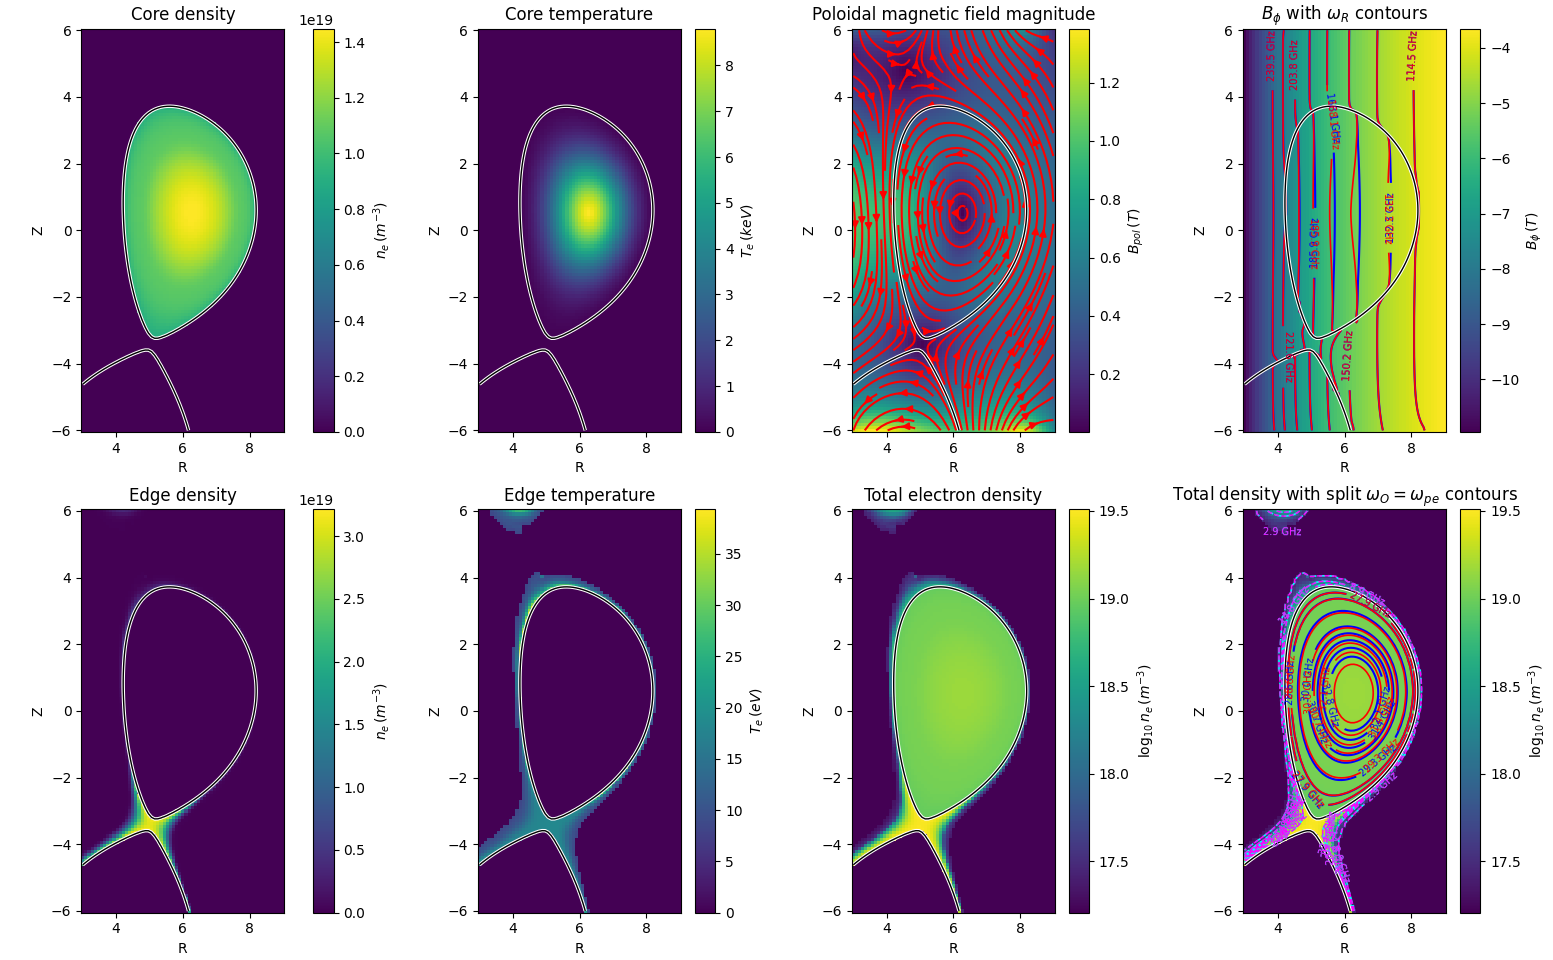
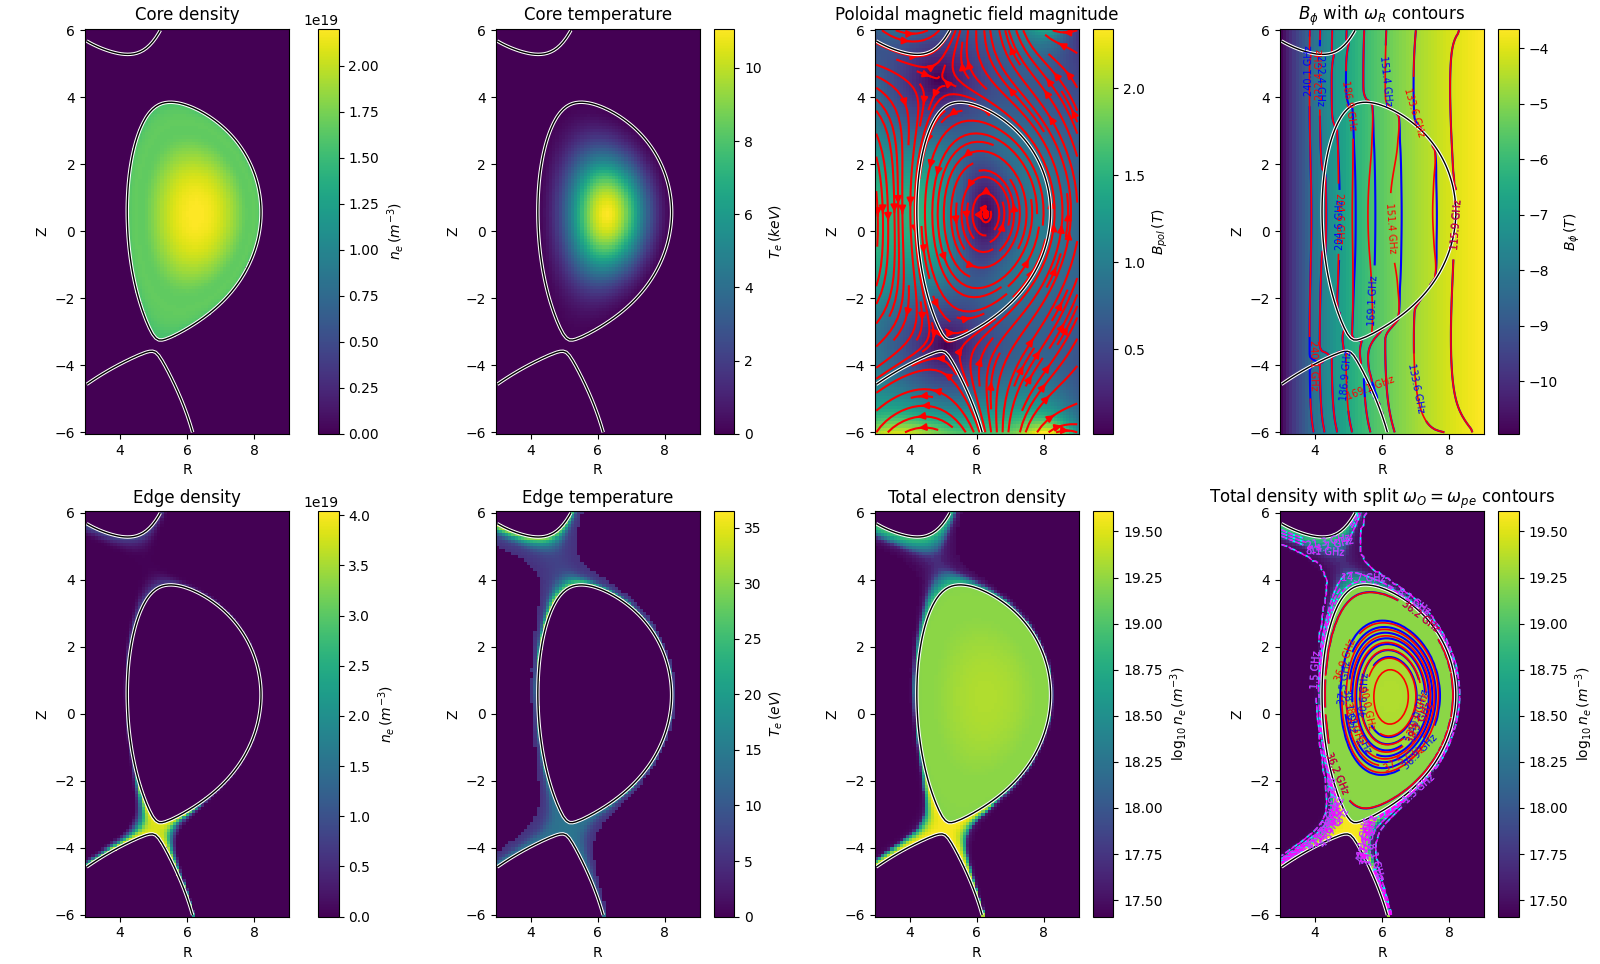
updated picture

diff --git a/src/main.cpp b/src/main.cpp
@@ -48,7 +48,7 @@ int main()
 {
     try {
         const std::string uri = "imas:hdf5?path=/home/pag/iter/134174/117";
-        const double time = 35.0;
+        const double time = 60.0;
 
         IdsNs::IDS ids;
         ids.open(uri, OPEN_PULSE);
